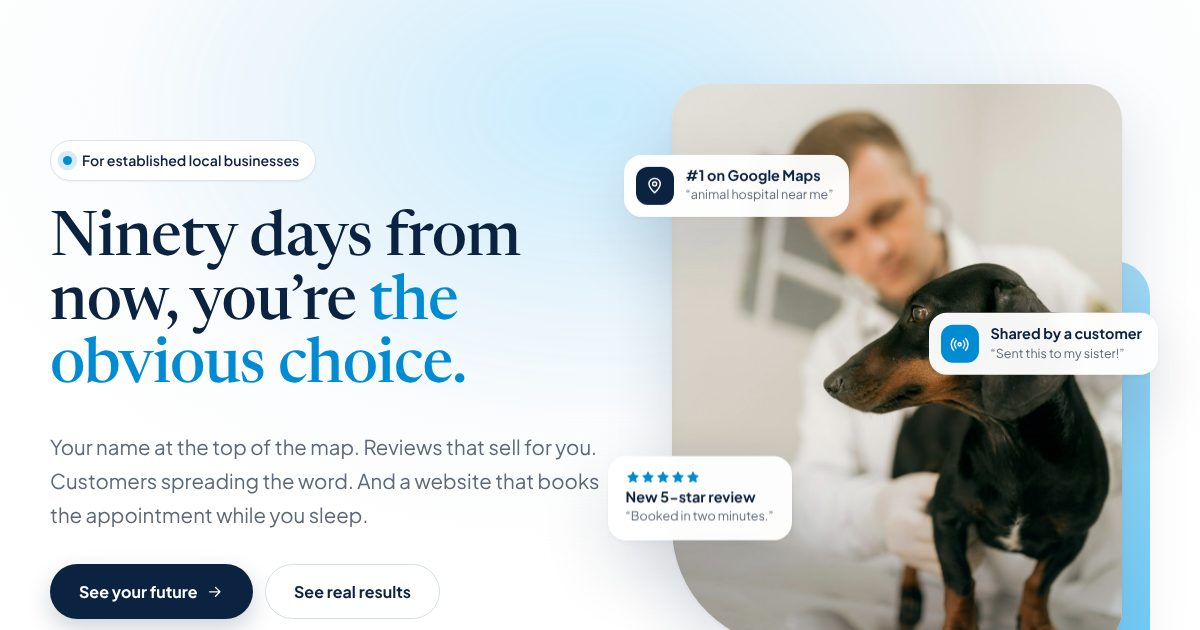
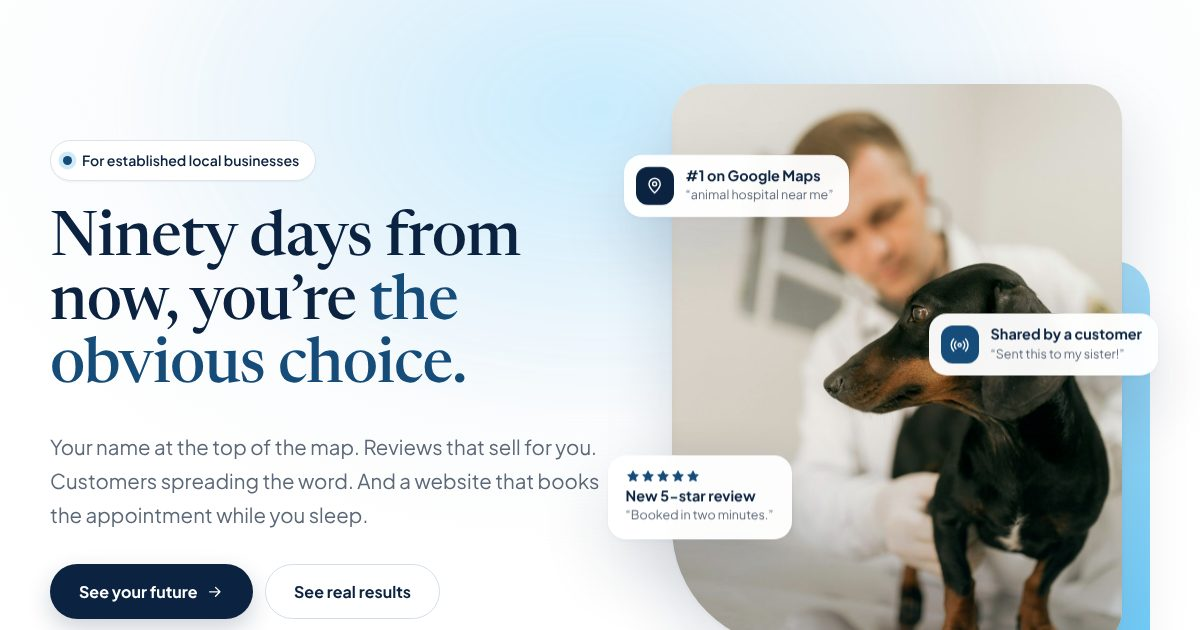
Change the accent blue to #154c79
Replaces #008bd2 (and its translucent shades) site-wide; hover shade is
#0f3a5d. Share image, theme screenshot, and video poster regenerated.

Claude-Session: https://claude.ai/code/session_018pQ9Jxz9pM4me8uzc4osee

diff --git a/wp-content/themes/progressive-marketing/style.css b/wp-content/themes/progressive-marketing/style.css
@@ -26,15 +26,15 @@ Text Domain: pmc
 	--line: #dce3ea;
 	--line-2: #d3deea;
 
-	--blue: #008bd2;
-	--blue-dark: #0072ad;
+	--blue: #154c79;
+	--blue-dark: #0f3a5d;
 	--navy: #0b2341;
 	--navy-2: #14395f;
 	--navy-3: #102f51;
 	--sky-accent: #6dccfa;
 	--steel: #8ba0b5;
-	--coral: #008bd2;
-	--green: #008bd2;
+	--coral: #154c79;
+	--green: #154c79;
 	--violet: #14395f;
 
 	/* Tints (all blue family) */
@@ -108,7 +108,7 @@ p { margin: 0 0 1em; }
 .btn:hover .icon { transform: translateX(3px); }
 .btn-lg { padding: 1.05em 1.75em; font-size: 1rem; }
 .btn-primary { background: var(--navy); color: #fff; box-shadow: 0 10px 24px rgba(11, 35, 65, .2); }
-.btn-primary:hover { background: var(--blue); color: #fff; box-shadow: 0 14px 30px rgba(0, 139, 210, .3); }
+.btn-primary:hover { background: var(--blue); color: #fff; box-shadow: 0 14px 30px rgba(21, 76, 121, .3); }
 .btn-ghost { border-color: var(--line-2); color: var(--ink); background: #fff; }
 .btn-ghost:hover { border-color: var(--ink); color: var(--ink); background: #fff; }
 .btn-block { width: 100%; }
@@ -440,7 +440,7 @@ p { margin: 0 0 1em; }
 .ai-demo { width: 100%; }
 .ai-tabs { display: flex; flex-wrap: wrap; gap: 8px; margin-bottom: 14px; }
 .ai-tabs button { font: inherit; font-size: .86rem; font-weight: 600; padding: 8px 16px; border-radius: 999px; border: 1px solid var(--line-2); background: rgba(255, 255, 255, .7); color: var(--text); cursor: pointer; transition: .2s; }
-.ai-tabs button[aria-selected="true"] { background: #fff; color: var(--ink); border-color: var(--blue); box-shadow: 0 0 0 3px rgba(0, 139, 210, .14); }
+.ai-tabs button[aria-selected="true"] { background: #fff; color: var(--ink); border-color: var(--blue); box-shadow: 0 0 0 3px rgba(21, 76, 121, .14); }
 .ai-window { border-radius: var(--radius); background: #fff; box-shadow: var(--shadow-lg); overflow: hidden; }
 .ai-bar { display: flex; align-items: center; gap: 10px; padding: 16px 20px; border-bottom: 1px solid var(--line); }
 .ai-bar span { display: none; }
@@ -547,7 +547,7 @@ p { margin: 0 0 1em; }
 .cta-glow { display: none; }
 .cta-inner::before, .cta-inner::after { content: ""; position: absolute; border-radius: 50%; pointer-events: none; }
 .cta-inner::before { width: 360px; height: 360px; left: -120px; bottom: -160px; background: rgba(109, 204, 250, .22); animation: drift 12s ease-in-out infinite; }
-.cta-inner::after { width: 300px; height: 300px; right: -90px; top: -120px; background: rgba(0, 139, 210, .12); animation: drift 14s ease-in-out infinite reverse; }
+.cta-inner::after { width: 300px; height: 300px; right: -90px; top: -120px; background: rgba(21, 76, 121, .12); animation: drift 14s ease-in-out infinite reverse; }
 @keyframes drift { 50% { transform: translate(30px, -20px); } }
 .cta-inner > * { position: relative; z-index: 1; }
 .cta-final h2 { font-size: clamp(2.2rem, 5vw, 4rem); max-width: 13em; margin: 0 auto .35em; }
@@ -642,7 +642,7 @@ p { margin: 0 0 1em; }
 .field label { display: block; font-size: .86rem; font-weight: 700; color: var(--ink); margin-bottom: 6px; }
 .req { color: var(--coral); }
 .field input, .field select, .field textarea { width: 100%; font: inherit; font-size: 1rem; color: var(--ink); background: var(--bg); border: 1.5px solid var(--line); border-radius: 14px; padding: 12px 14px; transition: border-color .2s, box-shadow .2s, background .2s; }
-.field input:focus, .field select:focus, .field textarea:focus { outline: none; background: #fff; border-color: var(--blue); box-shadow: 0 0 0 4px rgba(0, 139, 210, .12); }
+.field input:focus, .field select:focus, .field textarea:focus { outline: none; background: #fff; border-color: var(--blue); box-shadow: 0 0 0 4px rgba(21, 76, 121, .12); }
 .form-help { font-size: .85rem; color: var(--muted); margin-bottom: 20px; }
 .signup-form .btn { width: 100%; }
 .form-notice { padding: 18px 20px; border-radius: 14px; margin: 20px 0; }
